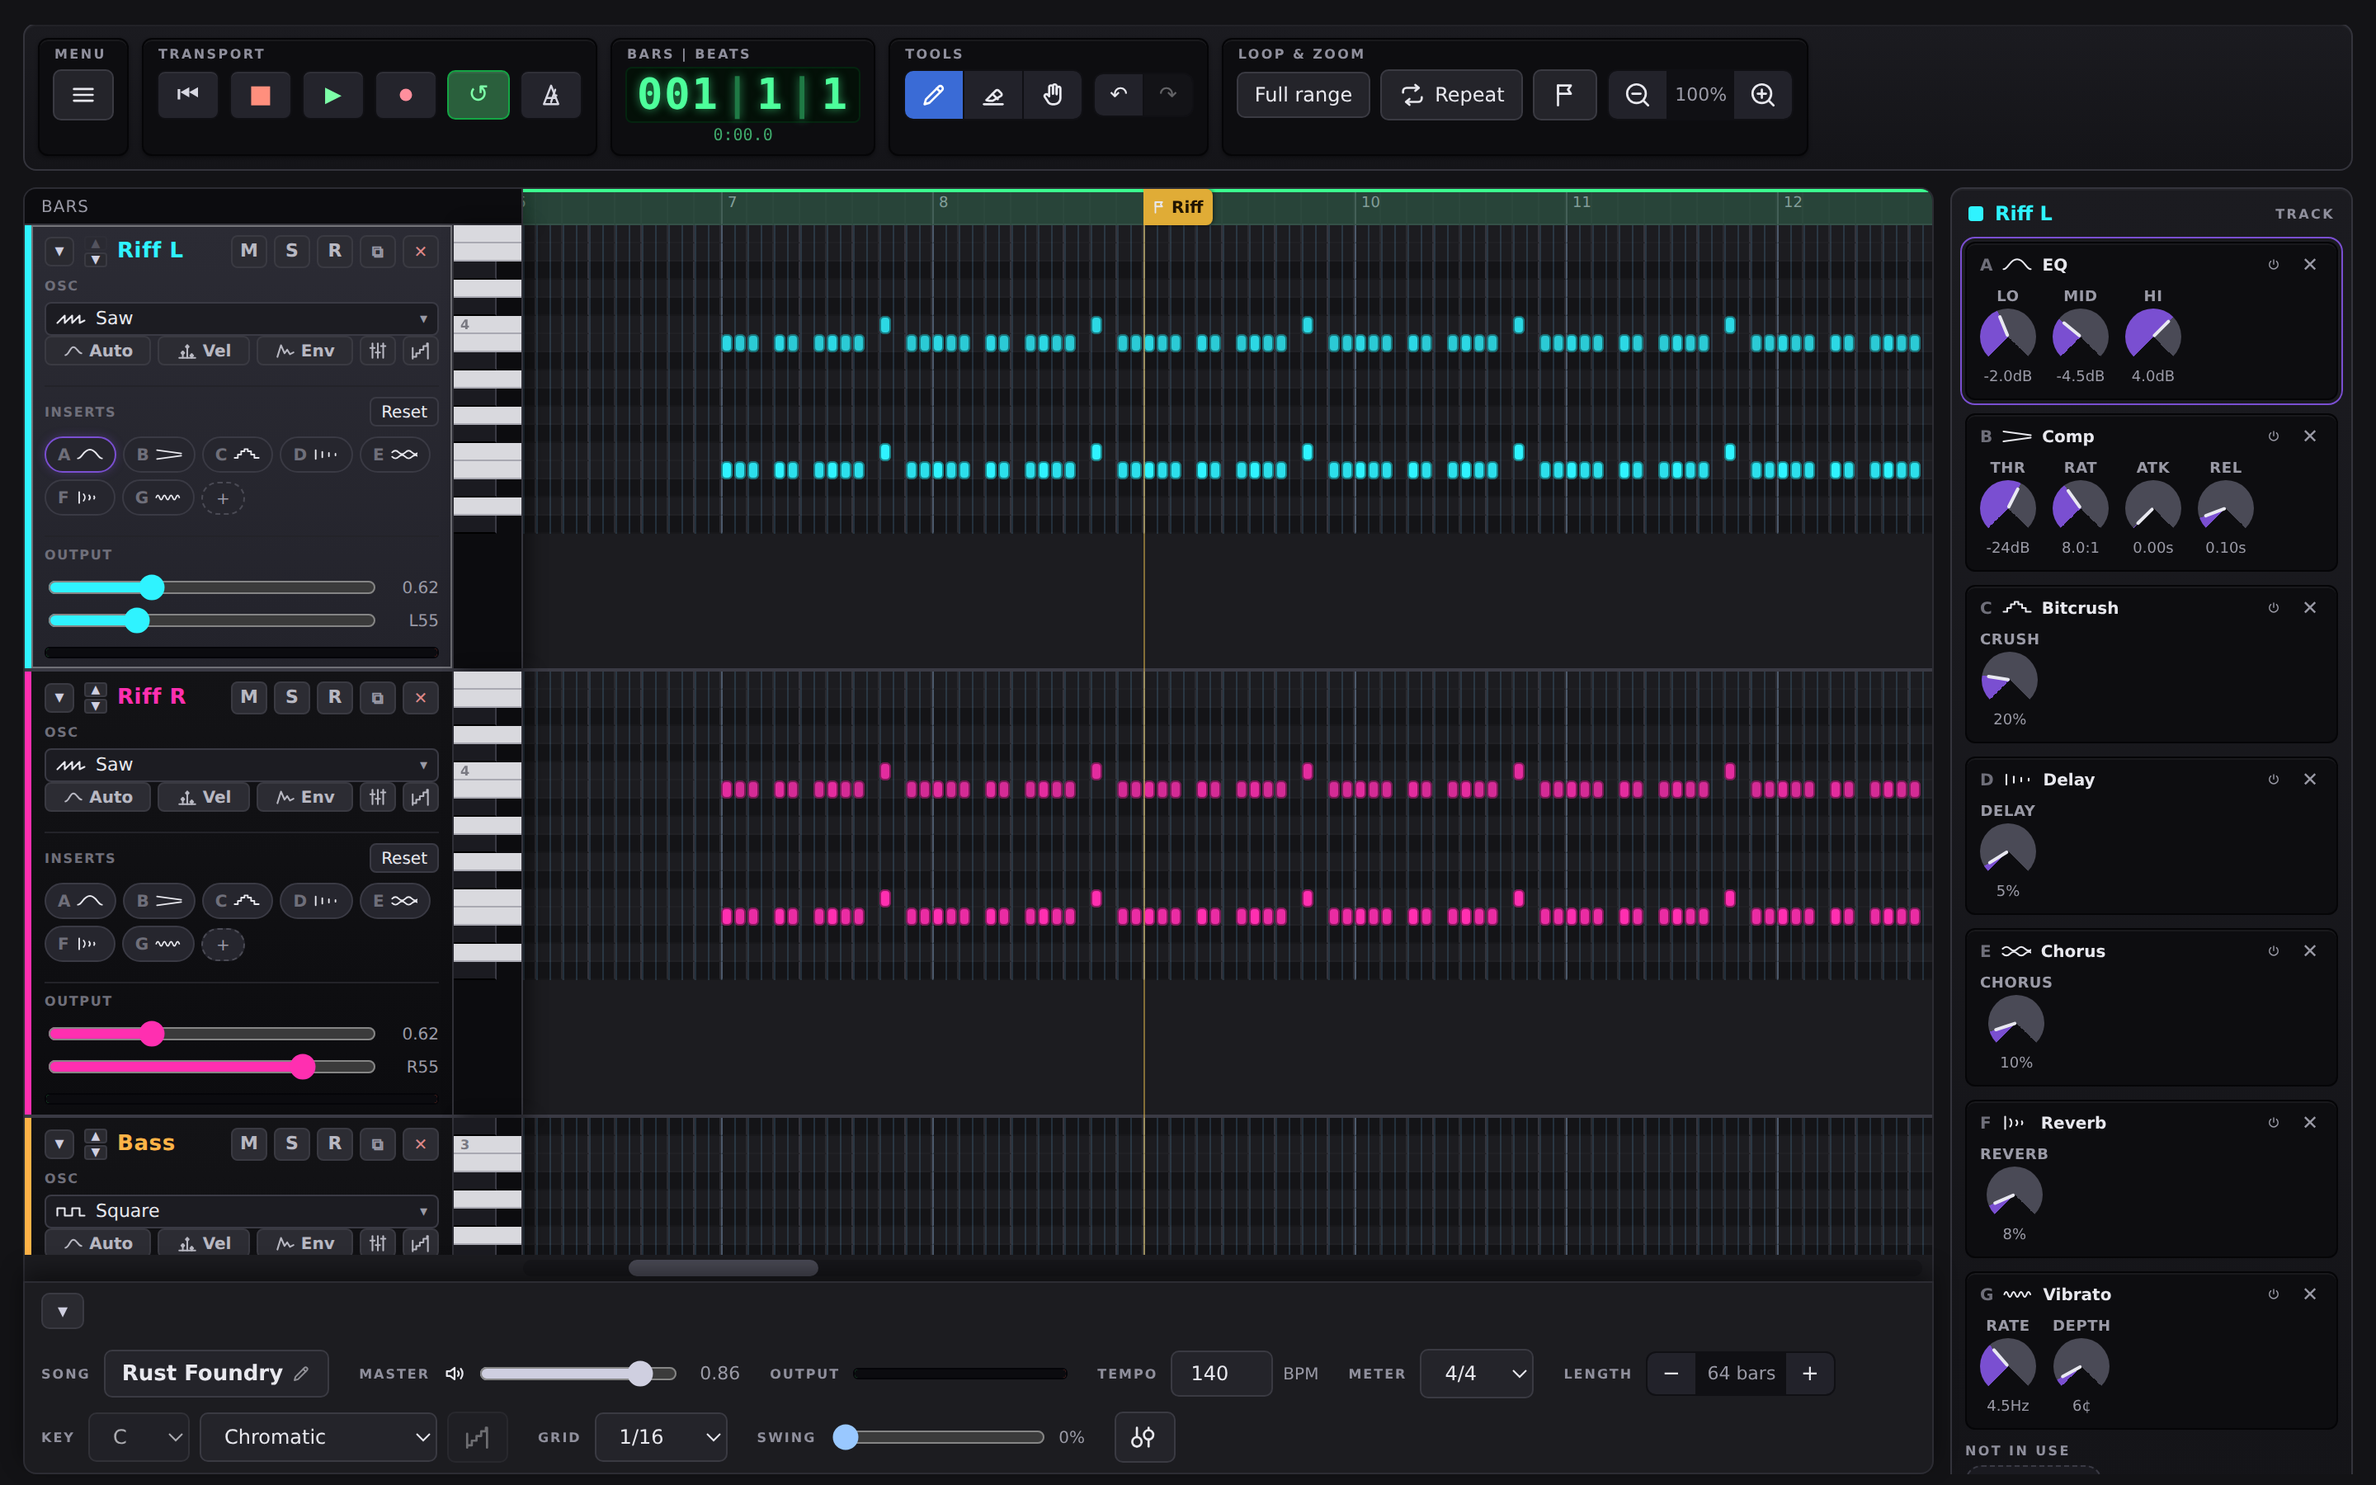
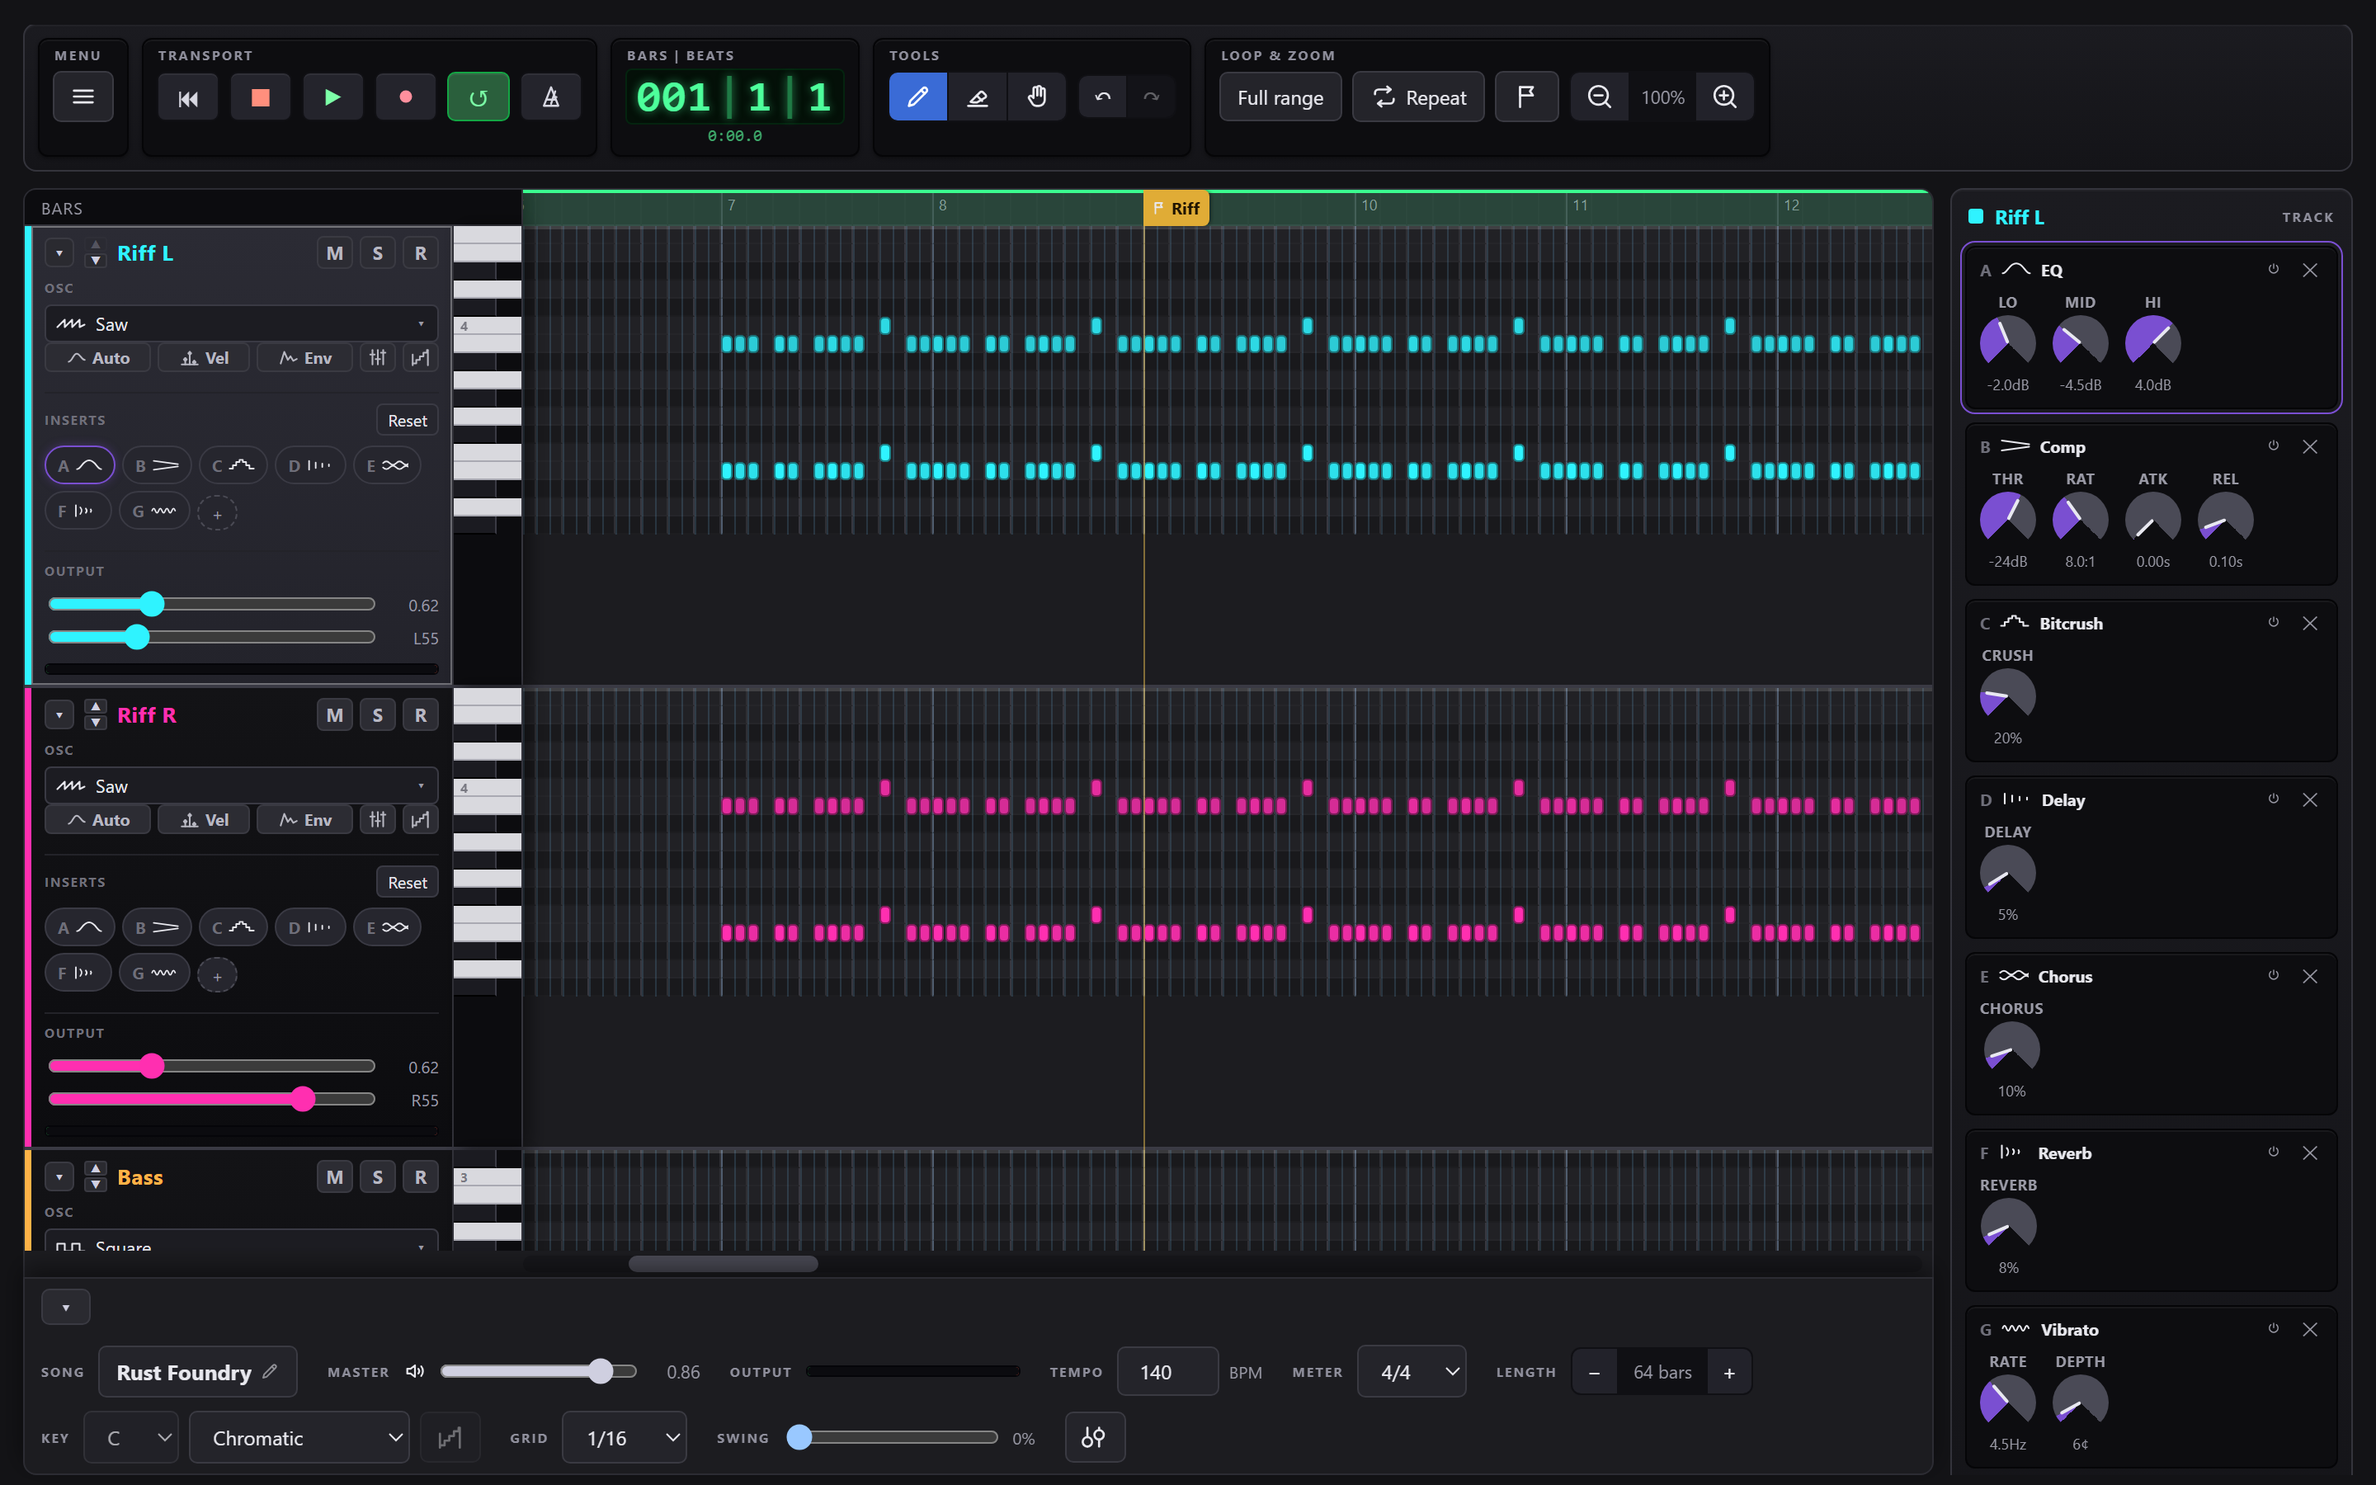
Point the help and README at where Duplicate/Remove actually live now
Four passages in the in-app help still described the track header carrying
them: the channel-strip walkthrough listed "remove" among the identity row's
buttons, the add/rename bullet sent you to "the ✕ on a strip", the collapse
bullet said remove was one of the things collapsing hides, and the duplicate
bullet opened with "⧉ next to ✕". None of that has been true since they moved
to the inspector column, and a help text that names a button you cannot find is
worse than none.

Both the help and the README now also say the two ask before acting, and why
they sit at the bottom of the strip rather than beside Mute/Solo/arm.

Screenshots re-shot with `node shots.js` — every one of them shows track
headers, so all three were stale.

diff --git a/index.html b/index.html
@@ -1148,16 +1148,16 @@
       <h3>Tracks &amp; channel strips</h3>
       <ul>
         <li>Starts with a lane for each track in the loaded song (e.g. <b>Lead</b>, <b>Harmony</b>, <b>Bass</b>, …) plus at least one <b>Rhythm</b> lane with ten hit types: Kick, Snare, Rim, Hi-hat, Open hat, Shaker, Tom, Clap, Crash and Ride. Rhythm lanes always stay grouped after every tonal track.</li>
-        <li>Each track's <b>channel strip</b> (left) starts with its name, <b>M</b>ute / <b>S</b>olo, record-arm and remove, then three labelled sections: <b>Osc</b> (the waveform — or "Kit" for rhythm — plus the Auto/Env/Preset buttons), <b>Inserts</b> (the effect chips, see below) and <b>Output</b> (volume, pan and a level meter).</li>
-        <li><span class="help-ico" data-glyph="addTrack"></span><b>Add track</b> / <span class="help-ico" data-glyph="addDrums"></span><b>Add rhythm track</b> (in the menu) add a tonal or rhythm track; <b>double-click a track's name</b> to rename it; the <b>✕</b> on a strip removes that track (the last remaining Rhythm lane can't be removed). Added tracks export into the game too.</li>
-        <li>The <b>▾/▸</b> button on a track collapses it to a slim strip — name, Mute/Solo and the level meter stay visible, everything else (waveform, automation/envelope, volume/pan, remove) hides along with the grid. Handy for an overview with many tracks. Remembered per browser.</li>
+        <li>Each track's <b>channel strip</b> (left) starts with its name and <b>M</b>ute / <b>S</b>olo / record-arm, then three labelled sections: <b>Osc</b> (the waveform — or "Kit" for rhythm — plus the Auto/Env/Preset buttons), <b>Inserts</b> (the effect chips, see below) and <b>Output</b> (volume, pan and a level meter).</li>
+        <li><span class="help-ico" data-glyph="addTrack"></span><b>Add track</b> / <span class="help-ico" data-glyph="addDrums"></span><b>Add rhythm track</b> (in the menu) add a tonal or rhythm track; <b>double-click a track's name</b> to rename it; <b>Duplicate track</b> and <b>Remove track</b> are in the <b>Track</b> box at the bottom of the inspector column, for whichever track is active (the last remaining Rhythm lane has no Remove). Added tracks export into the game too.</li>
+        <li>The <b>▾/▸</b> button on a track collapses it to a slim strip — name, Mute/Solo and the level meter stay visible, everything else (waveform, automation/envelope, volume/pan, the effect chips) hides along with the grid. Handy for an overview with many tracks. Remembered per browser.</li>
         <li>A tonal track's left edge is a <b>piano keyboard</b> rather than a column of note names — white and black keys, with only C labelled, by its octave. <b>Press a key to hear it</b>, and drag down the keys to glissando; it sounds through the track's own instrument, so what you hear is what writing a note there would give you. A rhythm track keeps its ten piece names, since a drum has no pitch to show.</li>
         <li>The <span class="help-ico" data-glyph="velocity"></span><b>Vel</b> button opens a <b>note lane</b> under the track: one stem per note or hit, with a diamond head you can drag. The dropdown in its header picks which value it shows — <b>Velocity</b>, <b>Pan</b>, or <b>Bend</b> on a tonal track. Pan and bend are signed, so they grow from a centre line rather than from the floor: a stem reads as an offset from neutral, not as a quantity. The grid already dims a quiet item, but <i>which of these is loudest</i> is a comparison, and heights compare far better than shades of one colour. Works on rhythm tracks too — that is where accents matter most. Dragging a head to the top removes the velocity again rather than storing 100%, so a part you never touched saves exactly as it did before.</li>
         <li>The <span class="help-ico" data-glyph="automation"></span><b>Auto</b> button opens a curve editor for that track's <b>Volume</b>, <b>Pan</b>, or <b>Delay/Chorus/Reverb send</b> over time (pick which from the dropdown): click empty space to add a point, drag a point to move it, double-click to delete it. Without any points, the channel strip's / <b>FX</b> panel's slider value is used for the whole song (as before).</li>
         <li>The <span class="help-ico" data-glyph="envelope"></span><b>Env</b> button opens that track's <b>ADSR</b> — Attack/Decay/Sustain/Release, shaping how a note's volume rises and fades — plus a per-track resonant <b>lowpass filter</b> (cutoff, resonance, and an envelope amount that sweeps the cutoff using the same ADSR shape). Tracks using the <b>FM</b> waveform get extra ratio/depth sliders here too, <b>Ring</b> gets the same ratio (how far above the note the modulator sits — a small whole number rings like a bell, anything else goes metallic), and tracks on <b>Square</b> get a <b>Duty</b> (pulse width) for the whole track. <b>PWM</b> is that same pulse width set <i>sweeping</i> — the width moves back and forth through each note, which is the sound that makes a chip lead sing rather than sit still. The sweep belongs to the track and runs continuously, so a run of short notes each picks it up where the last one left off instead of all starting at the same width — a single note can still override it from the inspector. Attack/Decay/Release are a percentage of each note's own length (so they scale with short vs. long notes); Sustain is the held level. <b>Reset</b> restores every default.</li>
         <li>The <span class="help-ico" data-glyph="preset"></span><b>Preset</b> button saves a track's waveform, envelope, filter and FM settings as a named preset you can reuse on any tonal track, in any song (saved in this browser).</li>
         <li>The <span class="help-ico" data-glyph="scale"></span><b>Chords</b> button (tonal tracks) writes a built-in <b>chord progression</b> into that track — I–V–vi–IV, Pachelbel's descent, the doo-wop turnaround, ii–V–I, the Andalusian cadence, the minor vamp, or a 12-bar blues — one chord per bar, from the playhead's bar to the end of the song, exactly like <b>Patterns</b> does for drums. The chords come from the song's <b>Key</b>: a progression is stored as scale <i>degrees</i>, so the same one is major or minor depending on the scale you picked. Change the key and insert it again to hear it somewhere else entirely. <b>▶</b> auditions it in the current key on that track's own sound before you commit.</li>
-        <li><b>⧉</b> next to <b>✕</b> duplicates a track: a copy of the part <i>and</i> the whole voice — waveform, envelope, filter, inserts, sends, kit — placed directly below it. It's the quickest way to try the same line on another instrument, and the two parts are independent afterwards, so editing one doesn't touch the other.</li>
+        <li>The <b>Track</b> box at the bottom of the inspector column holds the two things you do to a track as a whole. <b>Duplicate track</b> makes a copy of the part <i>and</i> the whole voice — waveform, envelope, filter, inserts, sends, kit — directly below it; it's the quickest way to try the same line on another instrument, and the two parts are independent afterwards, so editing one doesn't touch the other. <b>Remove track</b> deletes it and its part. <b>Both ask first</b>, and they sit down here rather than up in the track header on purpose: next to Mute/Solo/arm they were two small buttons away from three you press all the time, which is a bad place to keep a decision you can't take back with a mis-click.</li>
         <li>A rhythm track has a <span class="help-ico" data-glyph="drums"></span><b>Kit</b> picker in its header — the same picker a tonal track uses for its waveform, in the same spot, each kit drawing the shape of its own decay: <b>Retro</b> (the tight, dry 8-bit kit — the default, and what every existing song keeps), <b>80s</b> (a big gated snare, long crash, wide clap — the drum machine sound) and <b>Acoustic-ish</b> (lower, rounder kick and a snare with more skin in it). It is the same ten pieces throughout — the same rows, the same patterns, the same hits — synthesised with different numbers, so switching is instant and never touches what you've written. Each rhythm track picks its own, and the choice is saved with the song. Changing it auditions the snare, the piece a kit is easiest to judge by.</li>
         <li>The <b>Inserts</b> section (every track, rhythm included) shows one <b>chip</b> per effect the track is using — a letter and an icon, so you can see what's on a track and what's bypassed at a glance. The knobs are not there: click a chip and the <b>inspector column</b> on the right shows that track's whole chain, every effect at once. (With nothing selected it shows it anyway — that column is the mixing surface.) <b>+</b> reveals an effect the track isn't using yet, <b>Reset</b> clears the lot. The effects are continuous <b>Delay</b>, <b>Chorus</b> and <b>Reverb</b> sends — a track-wide effect level, separate from the per-note Echo/Chorus/Reverb toggles in the note inspector — plus a 3-band <b>EQ</b>, a <b>Compressor</b> (threshold/ratio/attack/release, same controls as the master compressor), a <b>Bitcrush</b> knob (lo-fi downsampler, independent of the per-note Crush toggle) and a <b>Tremolo</b> (Rate/Depth — amplitude wobble, 0% depth is off). Tonal tracks also get a <b>Vibrato</b> (Rate/Depth in cents, 100&nbsp;=&nbsp;a semitone) — pitch wobble on every note of the track, adding to the per-note Vibrato toggle rather than replacing it. Rhythm tracks don't offer it: it works by bending each note's oscillator, and a drum hit has none.</li>
         <li>The <span class="help-ico" data-glyph="drums"></span><b>Patterns</b> button (rhythm tracks only) inserts a built-in groove — Rock, Techno, Disco, Swing, Hip-Hop, House, Breakbeat, Funk, Half-time, Bossa Nova, Reggae, Trap — tiled from the playhead's bar to the end of the song. Every hit carries its own <b>velocity</b>, so the backbeat lands full while the off-beat hats sit back: an accented groove rather than a flat machine pulse. Each pattern also has a <b>fill</b> bar, used on the last bar of each phrase — set how long a phrase is with <b>Fill every</b> (or turn fills off to get the same bar throughout), and the bar after a fill opens with a crash. The kit is also spread across the stereo field as it goes in — hi-hat and ride to the right, shaker, toms and crash to the left, kick and snare centred, so a pattern sounds like a kit in a room instead of ten sounds in one spot; <b>Spread the kit in stereo</b> turns that off. <b>▶</b> auditions the groove bar and <b>▶ fill</b> the fill bar, exactly as they will be inserted, so you can hear both first. A pattern may bring a setting of its own along: <b>Swing/Shuffle</b> nudges the Swing slider, <b>Funk</b> switches the grid to 1/16 because that's where its ghost notes sit, and <b>Trap</b> to 1/16 T so its 16ths and its triplet roll are both readable.</li>

diff --git a/sw.js b/sw.js
@@ -1,6 +1,6 @@
 // Minimal offline cache for the PWA shell. No dependencies, no build step —
 // bump CACHE_NAME whenever a precached shell file changes so clients pick up the update.
-const CACHE_NAME = 'music-studio-v60';
+const CACHE_NAME = 'music-studio-v61';
 const SHELL_URLS = [
   './index.html',
   './manifest.webmanifest',

diff --git a/README.md b/README.md
@@ -27,9 +27,12 @@ chips in its header; the knobs live in the inspector column on the right.</sub>
 - **Add / rename / remove / reorder** tonal tracks, plus one or more **rhythm**
   tracks sharing a fixed 10-piece palette (kick, snare, rim, hi-hat, open hat,
   shaker, tom, clap, crash, ride)
-- **Duplicate a track** (⧉ in its header) — the part *and* the whole voice,
-  copied below it. "Try this line on another instrument" is a two-second move
-  rather than a selection, a new track and a paste
+- **Duplicate a track** — the part *and* the whole voice, copied below it. "Try
+  this line on another instrument" is a two-second move rather than a selection,
+  a new track and a paste. It lives with **Remove track** in the *Track* box at
+  the bottom of the inspector column, and both ask before acting: next to
+  Mute/Solo/arm in the track header they were two small unlabelled buttons away
+  from three you press constantly
 - **Three drum kits** — each rhythm track picks whether those ten pieces are
   synthesised as **Retro** (tight and dry, the 8-bit default), **80s** (gated
   snare, long crash, wide clap) or **Acoustic-ish** (lower kick, more skin on
